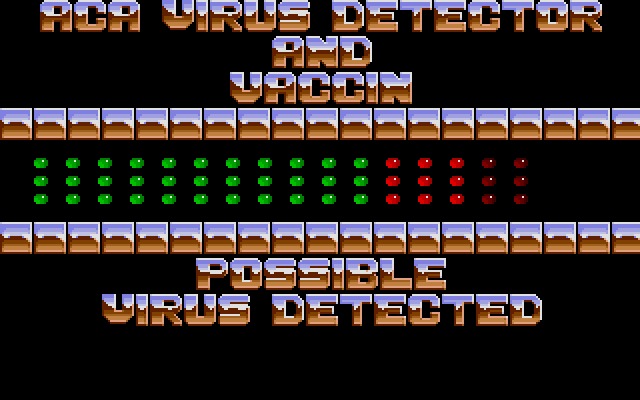
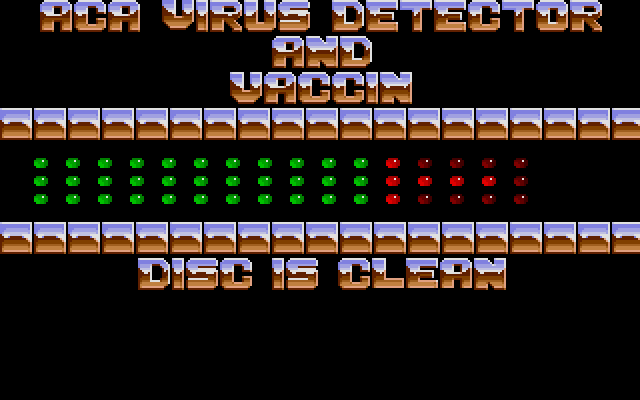
updated ACA

diff --git a/content/blog/antiviruses/aca/aca_virus_detector.md b/content/blog/antiviruses/aca/aca_virus_detector.md
@@ -12,8 +12,9 @@ image: {filename}../../../gallery/antiviruses/acavirusdetector.png
 Tags: Antivirus
 
 ## Basic information
+
 * *Version*: 1.0
-* *Author*: Anti Copyright Association
+* *Author*: Anti Copyright Association (ACA) 
 * *Language*: English
 * *Release date*: 1988
 * *Can detect*: ACA
@@ -53,9 +54,9 @@ To test a floppy disk with ACA, follow these steps:
 
 ACA VKIL cannot scan memory
 
-### Task 3: Recognize a file virus
+### Task 3: Recognize a link virus
 
-ACA VKIL cannot scan files for viruses
+ACA VKIL cannot scan files for link viruses
 
 ### Task 4: Restore a damaged boot sector
 
@@ -71,7 +72,7 @@ ACA VKIL cannot restore the boot sector
 
 ##### Method 2
 
-- With SHIFT or CAPS LOCK held down, type "EVOT"
+- With `SHIFT` or `CAPS LOCK` held down, type `EVOT`
 - In the main menu press F6 and after that the disk will be infected with the ACA virus
 
 The vaccine from method 1 will not protect against viruses other than ACA
@@ -83,6 +84,7 @@ The vaccine from method 1 will not protect against viruses other than ACA
 * Insert the test floppy into drive A:
 * Press F1 in the main menu
 
+ACA VKIL checks the first byte and if it is 60 but it is not an ACA virus, it will say that there is a possible virus on the disk.
 The maximum that will happen is that ACA VKIL will report that the disk may contain a virus
 
 ### Task 7: Detect malware when ACA VKIL is not running
@@ -95,13 +97,13 @@ In the following table we have summarized the task completion results:
 
 | Task | Result |
 | :---------------------------------------------------------------- | :------: |
-| Recognize boot viruses not loaded into memory                     |   0/7    |
-| Recognize boot viruses loaded into memory                         |   0/7    |
-| Recognize a file virus                                            |   0/1    |
+| Recognize boot viruses not loaded into memory                     |   1/8    |
+| Recognize boot viruses loaded into memory                         |   0/8    |
+| Recognize a link virus                                            |   0/1    |
 | Restore a damaged boot sector                                     |   0/1    |
 | Vaccinate a non-executable floppy disk                            |   0/1    |
 | Analyze a suspicious boot sector                                  |   0/5    |
 | Detect malware when ACA VKIL is not running                       |   0/2    |
-| **Total**                                                         |   0/24   |
+| **Total**                                                         |   1/26   |
 
 In conclusion, ACA VKIL is a terrible antivirus that can even infect your disk with a virus! Don't use this!!!
